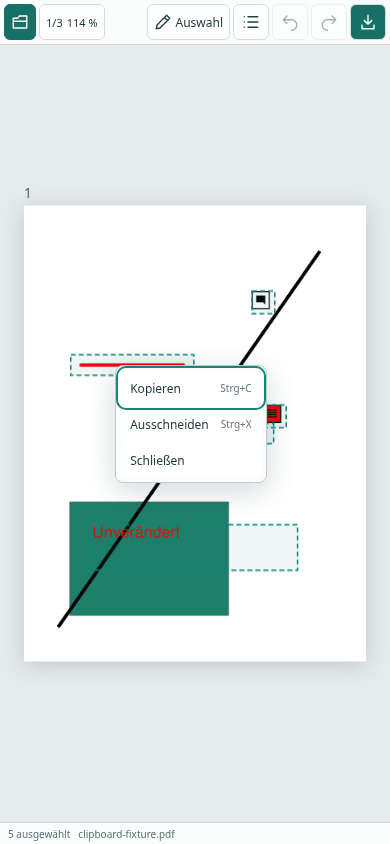
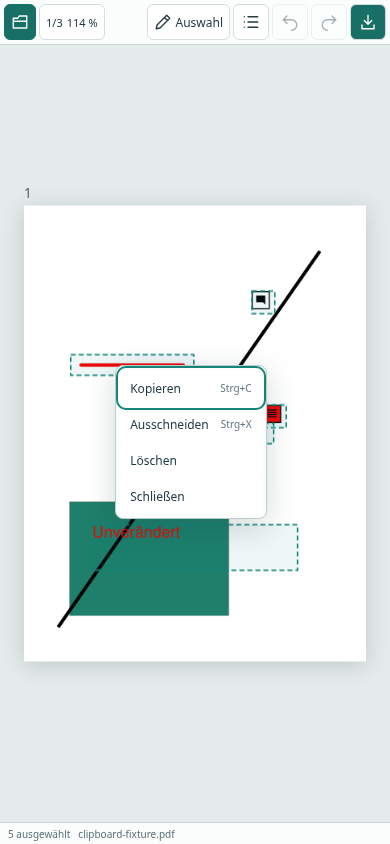
feat: delete selected annotations from context menu

Changed region(s): [[0.2769, 0.5237, 0.6462, 0.6469]]

diff --git a/tests/e2e/clipboard.spec.ts b/tests/e2e/clipboard.spec.ts
@@ -181,6 +181,69 @@ test("right-click menus copy and cut the full selection with native paste and at
   await page.getByRole("button", { name: "Wiederholen", exact: true }).click();
   await expect(page.locator(".annotation-list button")).toHaveCount(10);
 });
+test("context delete removes only the selected group, supports undo/redo and preserves the clipboard", async ({
+  page,
+  browserName,
+}) => {
+  await open(page);
+  await page.getByTestId("viewport").focus();
+  await page.keyboard.press("Control+a");
+  await page.keyboard.press("Control+c");
+  await expect(
+    page.getByRole("status").filter({ hasText: "5 Markierungen kopiert." }),
+  ).toBeVisible();
+  const start = await point(page, 90, 130),
+    end = await point(page, 220, 215);
+  await page.mouse.move(start.x, start.y);
+  await page.mouse.down();
+  await page.mouse.move(end.x, end.y, { steps: 8 });
+  await page.mouse.up();
+  await expect(page.getByTestId("selection-outline")).toHaveCount(3);
+  await right(page, 80, 140);
+  await page.getByRole("menuitem", { name: "Löschen", exact: true }).click();
+  await expect(page.locator(".annotation-list button")).toHaveCount(2);
+  await expect(page.getByTestId("selection-outline")).toHaveCount(0);
+  await expect(
+    page.getByRole("menu", { name: "Annotationsaktionen" }),
+  ).toHaveCount(0);
+  const saved = await download(
+    page,
+    `artifacts/context-delete-${browserName}.pdf`,
+  );
+  const baseline = new mupdf.PDFDocument(
+    new Uint8Array(await readFile("artifacts/clipboard-fixture.pdf")),
+  );
+  try {
+    for (const index of [0, 1]) {
+      const before = baseline.loadPage(index),
+        after = saved.loadPage(index);
+      try {
+        const expected = before
+          .getAnnotations()
+          .filter(
+            (a) => index !== 0 || !["A", "B", "C"].includes(a.getContents()),
+          );
+        expect(
+          after.getAnnotations().map((a) => a.getObject().toString()),
+        ).toEqual(expected.map((a) => a.getObject().toString()));
+      } finally {
+        before.destroy();
+        after.destroy();
+      }
+    }
+  } finally {
+    baseline.destroy();
+    saved.destroy();
+  }
+  await page.getByRole("button", { name: "Rückgängig", exact: true }).click();
+  await expect(page.locator(".annotation-list button")).toHaveCount(5);
+  await page.getByRole("button", { name: "Wiederholen", exact: true }).click();
+  await expect(page.locator(".annotation-list button")).toHaveCount(2);
+  await right(page, 30, 30);
+  await page.getByRole("menuitem", { name: /^Einfügen/ }).click();
+  await expect(page.locator(".annotation-list button")).toHaveCount(7);
+  await expect(page.getByTestId("selection-outline")).toHaveCount(5);
+});
 test("Ctrl+A/C/X/V, rotated target page and text-field shortcuts", async ({
   page,
   browserName,
@@ -306,4 +369,24 @@ test("touch long-press opens menus without moving selection and cancels on drag 
   await expect(
     page.getByRole("button", { name: "Rückgängig", exact: true }),
   ).toBeDisabled();
+  await page.getByTestId("viewport").focus();
+  await page.keyboard.press("Control+a");
+  const target = await point(page, 80, 140);
+  await touch("touchStart", [{ ...target, id: 1 }]);
+  const remove = page.getByRole("menuitem", { name: "Löschen", exact: true });
+  await expect(remove).toBeVisible();
+  await touch("touchEnd", []);
+  const removeBox = (await remove.boundingBox())!;
+  await touch("touchStart", [
+    {
+      x: removeBox.x + removeBox.width / 2,
+      y: removeBox.y + removeBox.height / 2,
+      id: 1,
+    },
+  ]);
+  await touch("touchEnd", []);
+  await expect(page.locator(".annotation-list button")).toHaveCount(0);
+  await expect(page.getByTestId("selection-outline")).toHaveCount(0);
+  await page.getByRole("button", { name: "Rückgängig", exact: true }).click();
+  await expect(page.locator(".annotation-list button")).toHaveCount(5);
 });

diff --git a/src/app/useAnnotations.ts b/src/app/useAnnotations.ts
@@ -310,6 +310,32 @@ export function useAnnotations(
     },
     [client, closeContext, invalidate, onError, showDraft],
   );
+  async function deleteSelection() {
+    const cur = current.current;
+    if (
+      lock.current ||
+      cur.formDirty ||
+      cur.state.readOnly ||
+      !cur.selection.length ||
+      !cur.selection.every((id) =>
+        cur.items.some(
+          (a) => a.id === id && a.page === cur.layout.page && a.editable,
+        ),
+      )
+    )
+      return;
+    showDraft(null);
+    closeContext();
+    const result = await edit({
+      action: "delete-many",
+      page: cur.layout.page,
+      ids: cur.selection,
+    });
+    if (result)
+      setNotice(
+        `${cur.selection.length} ${cur.selection.length === 1 ? "Markierung" : "Markierungen"} gelöscht.`,
+      );
+  }
   const selectAll = useCallback(() => {
     const cur = current.current;
     if (lock.current || cur.formDirty || cur.state.readOnly) return;
@@ -648,6 +674,7 @@ export function useAnnotations(
     closeContext,
     hasClipboard,
     copySelection,
+    deleteSelection,
     paste,
     selectAll,
     state,

diff --git a/src/app/AnnotationContextMenu.tsx b/src/app/AnnotationContextMenu.tsx
@@ -98,6 +98,13 @@ export function AnnotationContextMenu({
           >
             Ausschneiden <kbd>Strg+X</kbd>
           </button>
+          <button
+            role="menuitem"
+            disabled={editor.busy || editor.selection.length === 0}
+            onClick={() => activate(() => void editor.deleteSelection())}
+          >
+            Löschen
+          </button>
         </>
       ) : (
         <>

diff --git a/docs/CONTEXT_CLIPBOARD.md b/docs/CONTEXT_CLIPBOARD.md
@@ -2,7 +2,7 @@
 
 Im Werkzeug **Auswählen / Verschieben**:
 
-- Rechtsklick oder etwa 600 ms lang drücken auf eine ausgewählte Markierung: **Kopieren**, **Ausschneiden**. Die gesamte bestehende Auswahl bleibt erhalten. Auf einem noch nicht ausgewählten bearbeitbaren Objekt wird dieses zuerst ausgewählt.
+- Rechtsklick oder etwa 600 ms lang drücken auf eine ausgewählte Markierung: **Kopieren**, **Ausschneiden**, **Löschen**. Die gesamte bestehende Auswahl bleibt erhalten. Auf einem noch nicht ausgewählten bearbeitbaren Objekt wird dieses zuerst ausgewählt.
 - Rechtsklick oder lang drücken auf freie Blattfläche: **Einfügen**, **Alle Kommentare markieren**. Einfügen ist ohne kopierten Inhalt deaktiviert.
 - Das Menü bleibt im sichtbaren Browserbereich. Es öffnet sich auch während eines laufenden Kopiervorgangs; Aktionen bleiben bis zu dessen Abschluss deaktiviert. Escape, Schließen oder ein Klick außerhalb schließen es. Pfeiltasten/Home/End navigieren im Menü.
 - Bewegung von mehr als 8 CSS-Pixeln, Loslassen, Abbruch, Escape, Zoom oder ein zweiter Finger stoppen die Langdruck-Erkennung. Das Öffnen des Menüs verwirft nur die laufende Geste, ohne Annotationen zu verschieben.
@@ -14,7 +14,7 @@ Die linke obere Ecke des Gruppenrahmens wird an die Kontextmenü-Position gesetz
 
 Die App-Zwischenablage ist eine unabhängige Momentaufnahme. Spätere Änderungen am Original verändern die Kopie nicht. Sie bleibt bei Seiten- und PDF-Wechseln in derselben App-Sitzung erhalten. Neuladen/Schließen des Tabs verwirft sie. Kein Zugriff auf die Systemzwischenablage, keine Übertragung, keine dauerhafte Speicherung. Extern kopierte PDF-Objekte/Text werden dadurch nicht als Annotationen importiert; Textfelder behalten ihre normale Browser-Zwischenablage.
 
-Auswahl/Kopieren verändert die PDF nicht. Ausschneiden entfernt die ausgewählten Objekte als eine Undo-Operation; Einfügen erzeugt die gesamte Gruppe als eine weitere Undo-Operation. Undo stellt beim Ausschneiden alle Objekte wieder her bzw. entfernt beim Einfügen alle neu erzeugten Objekte. Die Zwischenablage bleibt dabei verfügbar.
+Auswahl/Kopieren verändert die PDF nicht. Ausschneiden entfernt die ausgewählten Objekte als eine Undo-Operation; Einfügen erzeugt die gesamte Gruppe als eine weitere Undo-Operation. Undo stellt beim Ausschneiden alle Objekte wieder her bzw. entfernt beim Einfügen alle neu erzeugten Objekte. Die Zwischenablage bleibt dabei verfügbar. **Löschen** entfernt die gesamte Auswahl ebenfalls als eine Undo-Operation, ohne die Zwischenablage zu ändern. Rückgängig stellt alle gelöschten Objekte gemeinsam wieder her.
 
 ## Native PDF-Umsetzung
 
@@ -25,6 +25,8 @@ Ausschneiden/Einfügen verwenden jeweils eine MuPDF-Journaloperation. Ungültige
 Grenzen: bearbeitbare Ink-, Text- und einfache FreeText-Annotationen; geschützte oder nicht unterstützte Typen werden weder kopiert noch mit „Alle Kommentare markieren“ ausgewählt. Zwischenablage-PDF maximal 20 MB. Keine vollständige Kompatibilitätszusage für beliebige Drittanbieter-Sonderdaten oder Schriften.
 
 ## Tatsächliche Prüfungen
+
+Ergänzung **Löschen im Kontextmenü**: Typecheck, Lint und vier gezielte Chromium-Browsertests bestanden. Per Rechtsklick drei von fünf Objekten gelöscht, Download mit nativen PDF-Objekten geprüft (übrige Objekte und andere Seite unverändert), Gruppe mit einem Undo/Redo wiederhergestellt/erneut gelöscht und zuvor kopierte fünf Objekte anschließend unverändert eingefügt. Bei 390 × 844 per Langdruck geöffnet und per simuliertem Touch-Tap alle fünf Objekte gelöscht; ein Undo stellt die Gruppe wieder her. Aktuelles CI-Ergebnis steht im zugehörigen PR.
 
 Codex Cloud:
 

diff --git a/README.md b/README.md
@@ -18,7 +18,7 @@ Die [Browser-Vorschau](https://roju0ch.github.io/PDF-Annotation-Editor/) zeigt d
 
 Die Oberfläche zeigt nur eine schmale Hauptleiste und eine Statuszeile. Ansicht, Werkzeuge und Annotationsliste erscheinen bei Bedarf als überlagerte Menüs. Schließen mit **×**, Escape oder einem Klick außerhalb; dieser Klick zeichnet keine Annotation. Auch ausgeblendete, noch nicht übernommene Eigenschaften bleiben erhalten. Die Menüs benötigen einen aktuellen Browser mit Popover-Unterstützung. [Layout-Prüfung und Screenshots](docs/COMPACT_LAYOUT.md).
 
-Im Auswahlwerkzeug öffnet **Rechtsklick** oder **langes Drücken (ca. 0,6 Sekunden)** ein Kontextmenü: auf einer ausgewählten Markierung **Kopieren/Ausschneiden**, auf freier Blattfläche **Einfügen/Alle Kommentare markieren**. Die gesamte Auswahl wird kopiert oder ausgeschnitten. Einfügen platziert die Gruppe an der gedrückten Stelle. Bewegung oder ein zweiter Finger verhindern das Langdruck-Menü.
+Im Auswahlwerkzeug öffnet **Rechtsklick** oder **langes Drücken (ca. 0,6 Sekunden)** ein Kontextmenü: auf einer ausgewählten Markierung **Kopieren/Ausschneiden/Löschen**, auf freier Blattfläche **Einfügen/Alle Kommentare markieren**. Die Aktion betrifft die gesamte Auswahl. Löschen verändert die Zwischenablage nicht. Einfügen platziert die Gruppe an der gedrückten Stelle. Bewegung oder ein zweiter Finger verhindern das Langdruck-Menü.
 
 | Kürzel | Aktion |
 | --- | --- |
@@ -27,7 +27,7 @@ Im Auswahlwerkzeug öffnet **Rechtsklick** oder **langes Drücken (ca. 0,6 Sekun
 | Strg+X | Auswahl ausschneiden |
 | Strg+V | An der letzten Mausposition auf dem Blatt einfügen; sonst in der Mitte des sichtbaren Bereichs |
 
-Auf macOS ist auch Cmd statt Strg möglich. In Text-/Eigenschaftsfeldern bleiben die normalen Textkürzel erhalten. Die **App-Zwischenablage** bleibt beim PDF-Wechsel erhalten, endet aber beim Neuladen/Schließen des Tabs. Sie nutzt weder die Systemzwischenablage noch dauerhafte Speicherung. Ausschneiden und Einfügen sind jeweils als gesamte Gruppe rückgängig machbar. [Details und Testnachweise](docs/CONTEXT_CLIPBOARD.md).
+Auf macOS ist auch Cmd statt Strg möglich. In Text-/Eigenschaftsfeldern bleiben die normalen Textkürzel erhalten. Die **App-Zwischenablage** bleibt beim PDF-Wechsel erhalten, endet aber beim Neuladen/Schließen des Tabs. Sie nutzt weder die Systemzwischenablage noch dauerhafte Speicherung. Ausschneiden, Einfügen und Löschen sind jeweils als gesamte Gruppe rückgängig machbar. [Details und Testnachweise](docs/CONTEXT_CLIPBOARD.md).
 
 Touch unterstützt Auswahlbox und Gruppenbewegung mit einem Finger sowie Pan und Zoom mit zwei Fingern; ein zweiter Finger bricht eine laufende Auswahlbox, Verschiebung, einen Strich bzw. eine Platzierung ab. [Gruppenauswahl und tatsächliche Prüfung](docs/GROUP_SELECTION.md). Reale Geräte müssen weiter geprüft werden. Der Editor warnt beim Dateiwechsel und Schließen vor ungesicherten Änderungen. **Automatische Wiederherstellung ist noch nicht enthalten:** regelmäßig exportieren. Textfelder haben zunächst eine feste Ausgangsgröße; nachträgliche Größenänderung, weitere Formen, Textmarker und kontinuierliches Radieren folgen später.
 
